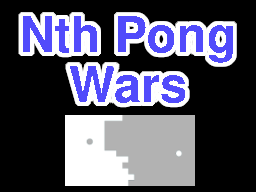
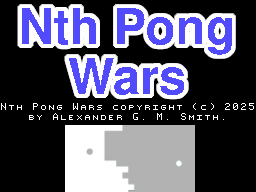
Getting the title screen to look better, with credits.

diff --git a/SourceCode/Nabu/main.c b/SourceCode/Nabu/main.c
@@ -311,7 +311,8 @@ void main(void)
     DebugPrintString("Failed to load NTHPONG\\TITLESCREEN.PC2.\n");
     return;
   }
-  z80_delay_ms(500); /* No font loaded, just graphics, so no hit any key. */
+  vdp_setCursor2(30, 23);
+  HitAnyKey("");
 #endif
 
   /* Load our game screen, with a font and sprites too. */
@@ -321,6 +322,23 @@ void main(void)
     DebugPrintString("Failed to load NTHPONG\\NTHPONG1.ICV.\n");
     return;
   }
+
+#if 0
+  /* Print some text on screen which we can screen grab and put into the fully
+     graphic title screen, and it will still look pixel perfect if we get it on
+     a character cell 8 pixel boundary. */
+
+  vdp_clearRows(0, 23);
+  vdp_setCursor2(0, 0);
+  /* 32 wide 12345678901234567890123456789012 */
+  vdp_print("Nth Pong Wars copyright (c) 2025");
+  vdp_newLine();
+  vdp_print("by Alexander G. M. Smith.");
+  vdp_newLine();
+  vdp_print("hit any key to continue...");
+  vdp_newLine();
+  HitAnyKey(NULL);
+#endif
 
   /* Print out some status info about the game.  Leave top row unmodified since
      it has score graphics from the default screen load. */
